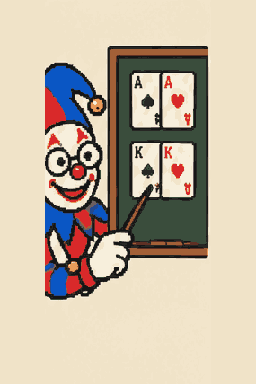
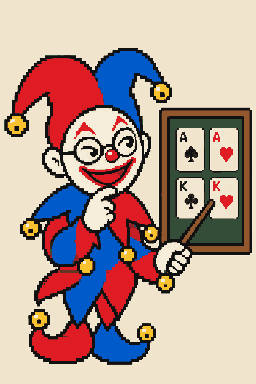
T-020 영리한 조커 그림을 한 장짜리로 교체

diff --git a/docs/progress.md b/docs/progress.md
@@ -110,4 +110,5 @@ npm run build      배포용 빌드 (dist/)
 | 2026-10-21 | T-027 | Claude | 카드 강화 8종 규칙과 강화 타로 8종. 점수 계산을 단계별 누적으로 바꿈(곱하기 단계). 행운과 유리는 판 시드 난수를 이어 씀. SAVE_VERSION 4. 화면은 다음 커밋 |
 | 2026-10-21 | T-027 | Claude | 강화 카드 화면(바탕색과 표시 글자, 돌 카드 전용 그림), 계산 과정에 x 표시. 브라우저에서 유리 x2와 손에 든 강철 x1.5 계산 확인 (D-016) |
 | 2026-10-21 | T-020 | 사용자, Claude | 미친 조커 그림 (1/5). 남은 것: crazy, droll, wily, clever |
-| 2026-10-21 | T-020 | 사용자, Claude | 나머지 4장은 사용자가 15칸 표 한 장(art/jokers/sheets/)으로 받아 아래 줄 칸을 잘라 2:3으로 맞춤. 칸 해상도가 낮고, clever_joker는 원본에서 광대가 칸 왼쪽에 잘려 있어 나중에 다시 그릴 후보 |
+| 2026-10-21 | T-020 | 사용자, Claude | 나머지 4장은 사용자가 15칸 표 한 장(art/jokers/sheets/)으로 받아 아래 줄 칸을 잘라 2:3으로 맞춤. 칸 해상도가 낮다 (crazy, droll, wily는 다시 그릴 후보) |
+| 2026-10-21 | T-020 | 사용자, Claude | clever_joker를 한 장짜리 그림으로 교체 (잘린 구도와 낮은 해상도 해결) |
